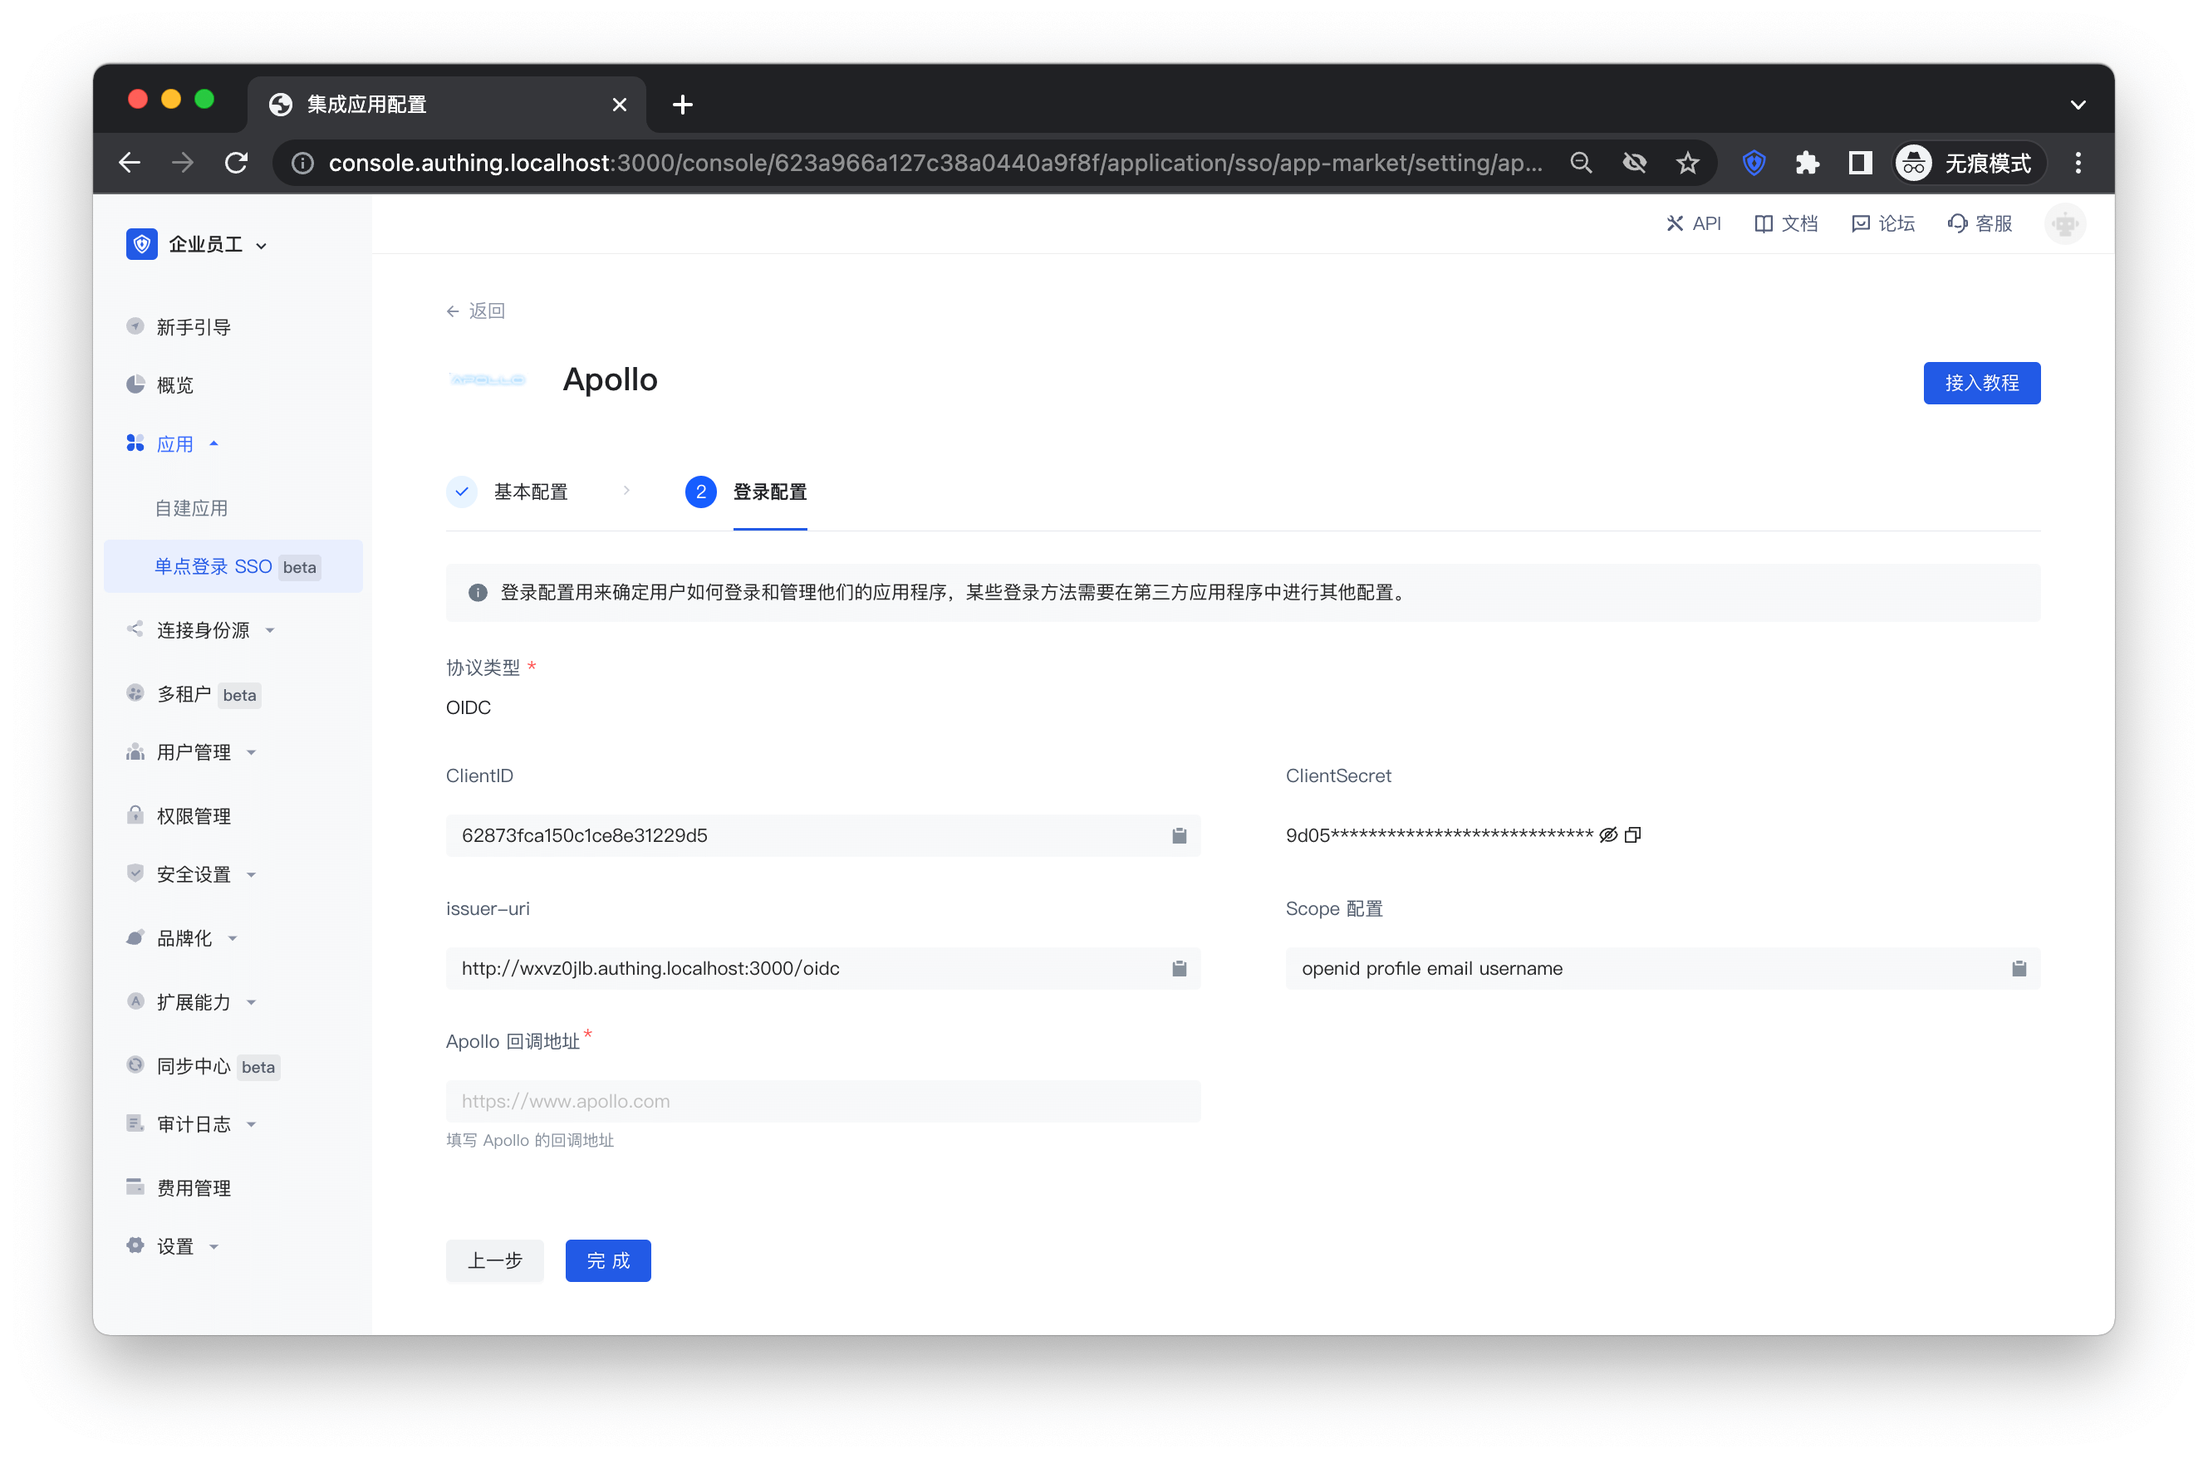
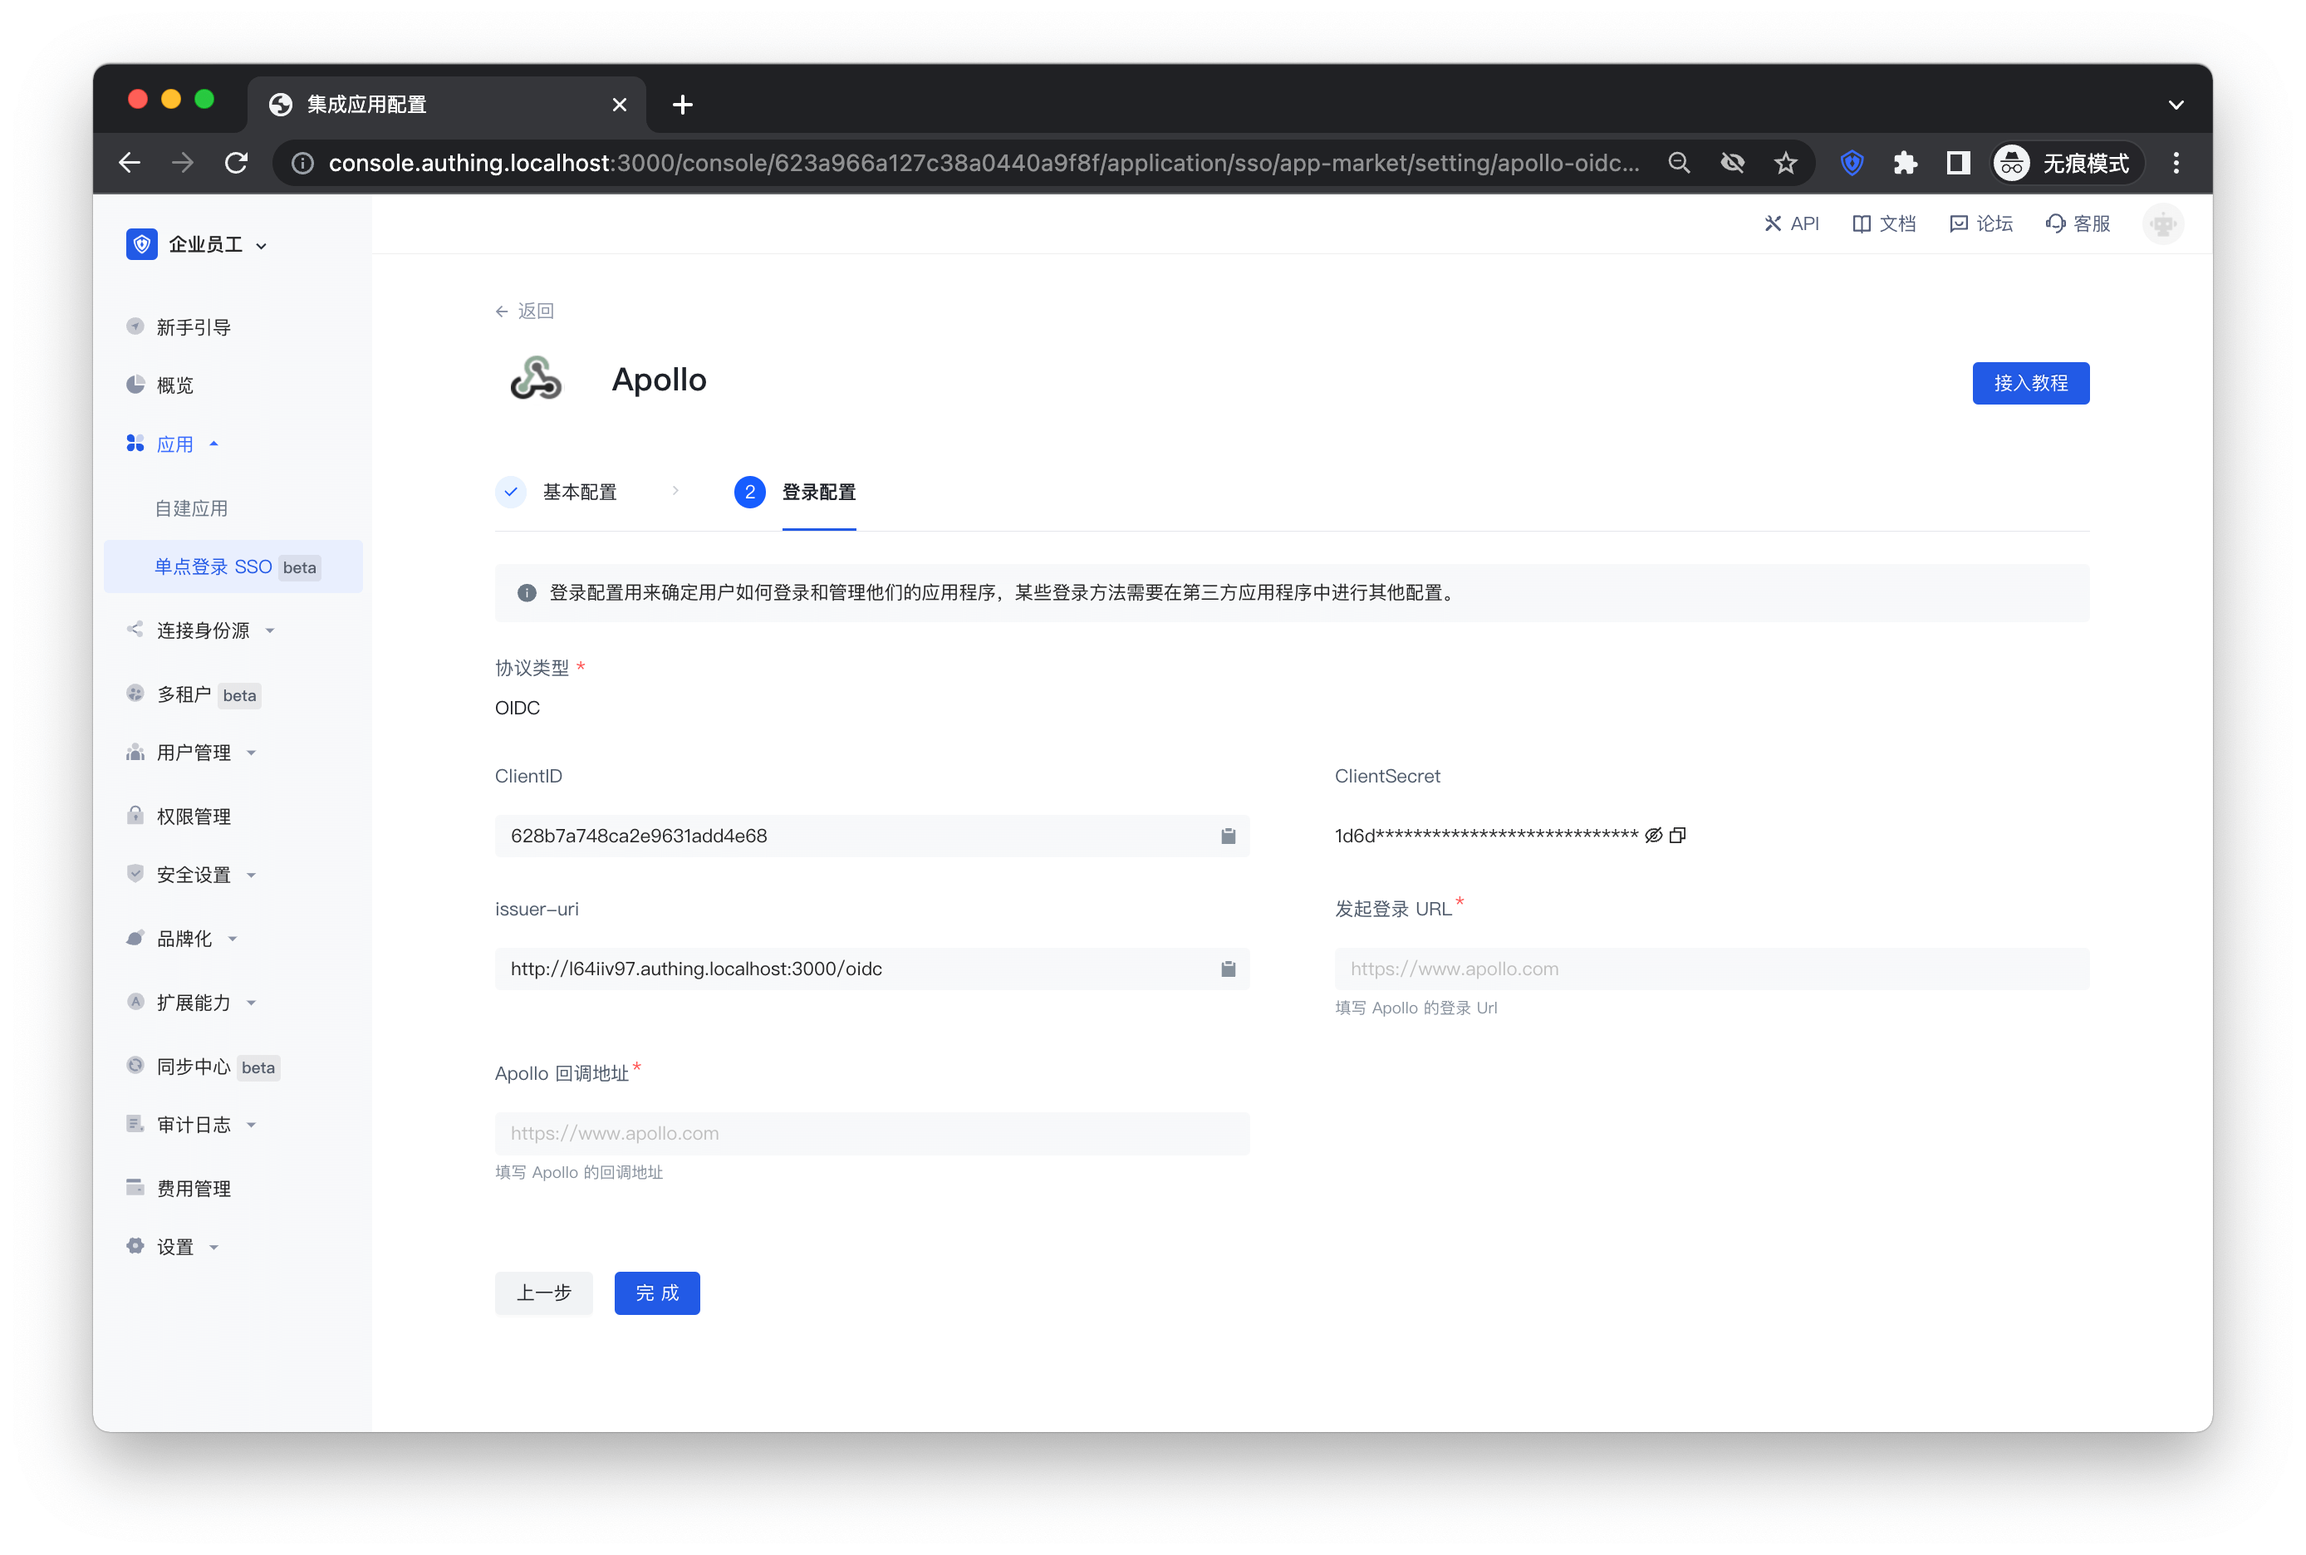
apollo docs update

diff --git a/docs/integration/apollo/1.md b/docs/integration/apollo/1.md
@@ -10,16 +10,19 @@ spring:
     oauth2:
       client:
         provider:
-          <fill-in-the-provider-name-here>: Authing # oidc 提供者的名称, 任意字符均可
+          Authing: # oidc 提供者的名称, 任意字符均可
             issuer-uri: 上一步复制的 issuer-uri
         registration:
-          <fill-in-the-registration-name-here>: 
+          Apollo:
             authorization-grant-type: authorization_code
             client-authentication-method: basic
             client-id: 上一步复制的 ClientID
-            provider: Authing， # oidc 客户端的名称, 任意字符均可，需和 provider-name 保持一致
-            scope:
-              - 上一步复制的 Scope 配置
+            provider: Authing # oidc 客户端的名称, 任意字符均可，需和 provider-name 保持一致
+            scope: # Scope 配置，想要添加其他配置，按 “- field” 的方式添加
+              - openid
+              - profile
+              - email
+              - username
             client-secret: 上一步复制的 ClientSecret
 ```
 
@@ -28,7 +31,22 @@ spring:
 export JAVA_OPTS="$JAVA_OPTS -Dspring.profiles.active=github,oidc"
 ```
 
-OpenID Connect 登录服务对重定向的地址会有白名单限制, 所以需要将 apollo-portal 的 https 地址添加到白名单才能正常重定向
+发起登录 Url：Apollo 的域名，例如：https://apollo.dev.authing-inc.co
+
+Apollo 回调地址：一般为 https://${domain}/oauth2/authorization/Apollo，例如：https://apollo.dev.authing-inc.co/oauth2/authorization/Apollo
+
+- 也可通过控制台获取
+
+回到 Authing 配置页，点击**体验登录**
+![](~@imagesZhCn/integration/apollo/2-2.png)
+
+输入账号密码，打开控制台，点击 Network 选项，选择 All。点击登录按钮
+
+![](~@imagesZhCn/integration/apollo/2-3.png)
+
+找到 Apollo 的回调 Url，复制 ? 前的部分
+
+![](~@imagesZhCn/integration/apollo/2-4.png)
 
 在**应用详情** -> **访问授权** 页面选择「允许所有用户访问」。
 

diff --git a/docs/integration/apollo/README.md b/docs/integration/apollo/README.md
@@ -1,12 +1,12 @@
 ---
 {
   title: 'Apollo 对接 - 单点登录配置 - 应用身份服务 - Authing 身份云',
-  description: 'Apollo Global Management 是最大的资产管理公司之一，为世界上许多最杰出的投资者提供服务。 我们在私募股权、信贷和房地产领域采用以价值为导向的方法。',
+  description: 'Apollo - 一个可靠的配置管理系统',
   meta:
     [
       {
         name: 'keywords',
-        content: 'Apollo Global Management, 私募股权, 信贷, 房地产, SSO,应用身份服务,单点登录配置,Authing身份云',
+        content: 'Apollo, 配置, SSO,应用身份服务,单点登录配置,Authing身份云',
       },
     ],
   noSidebar: true,

diff --git a/docs/integration/apollo/0.md b/docs/integration/apollo/0.md
@@ -8,7 +8,8 @@
 
 ![](~@imagesZhCn/integration/apollo/1-2.png)
 
-- 复制 ClientID、ClientSecret、issuer-uri、Scope 配置
+- 复制 ClientID、ClientSecret、issuer-uri
+- 发起登录 URL：Apollo 的域名
 - Apollo 回调地址：从 Apollo 中获取
 
 ![](~@imagesZhCn/integration/apollo/1-3.png)
